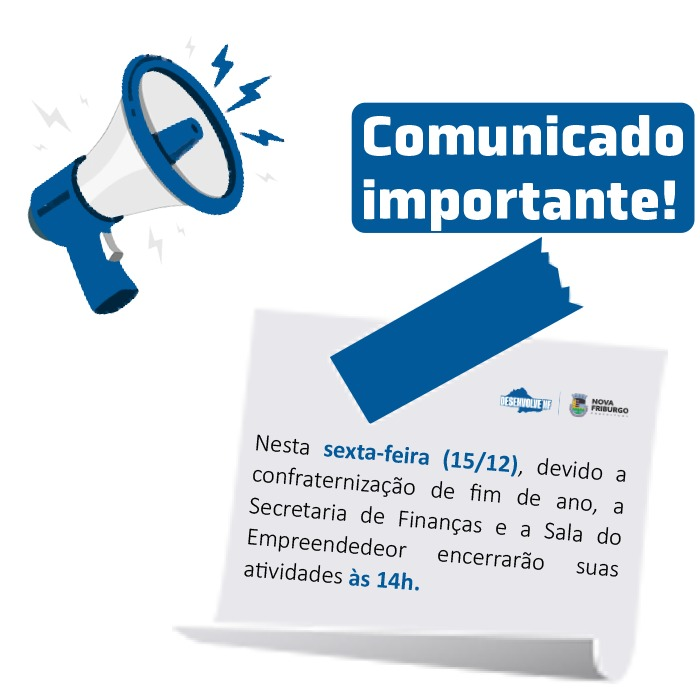
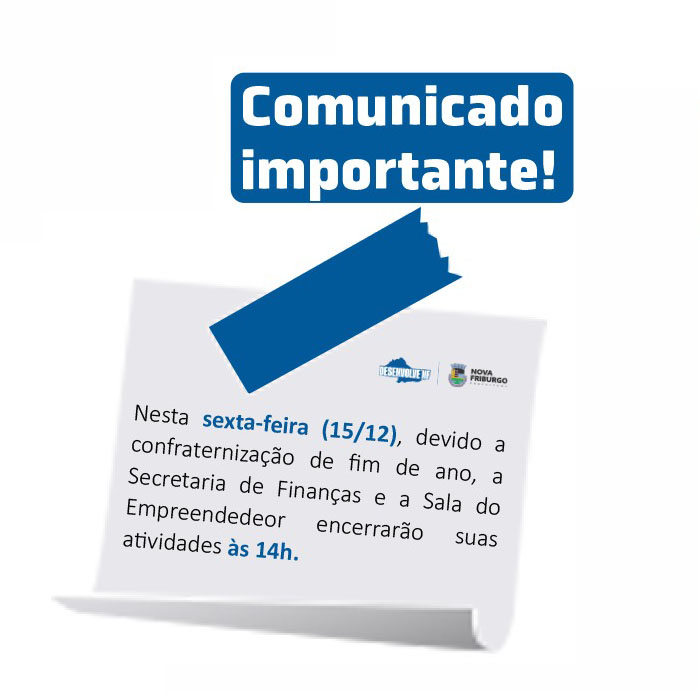
12.12.23.4.ED

diff --git a/desenvolve_nf/templates/desenvolve_nf/index.html b/desenvolve_nf/templates/desenvolve_nf/index.html
@@ -672,7 +672,7 @@
             <button type="button" class="btn-close" data-bs-dismiss="modal" aria-label="Close"></button>
           </div>
           <div class="modal-body d-flex">
-            <img src="{% static 'images/aviso.jpg' %}" class="m-auto" style="width: 350px;" alt="aviso">
+            <img src="{% static 'images/aviso.jpg' %}" class="m-auto img-fluid" style="max-width: 350px;" alt="aviso">
           </div>
           <div class="modal-footer" style="border-top: none;">
           </div>
